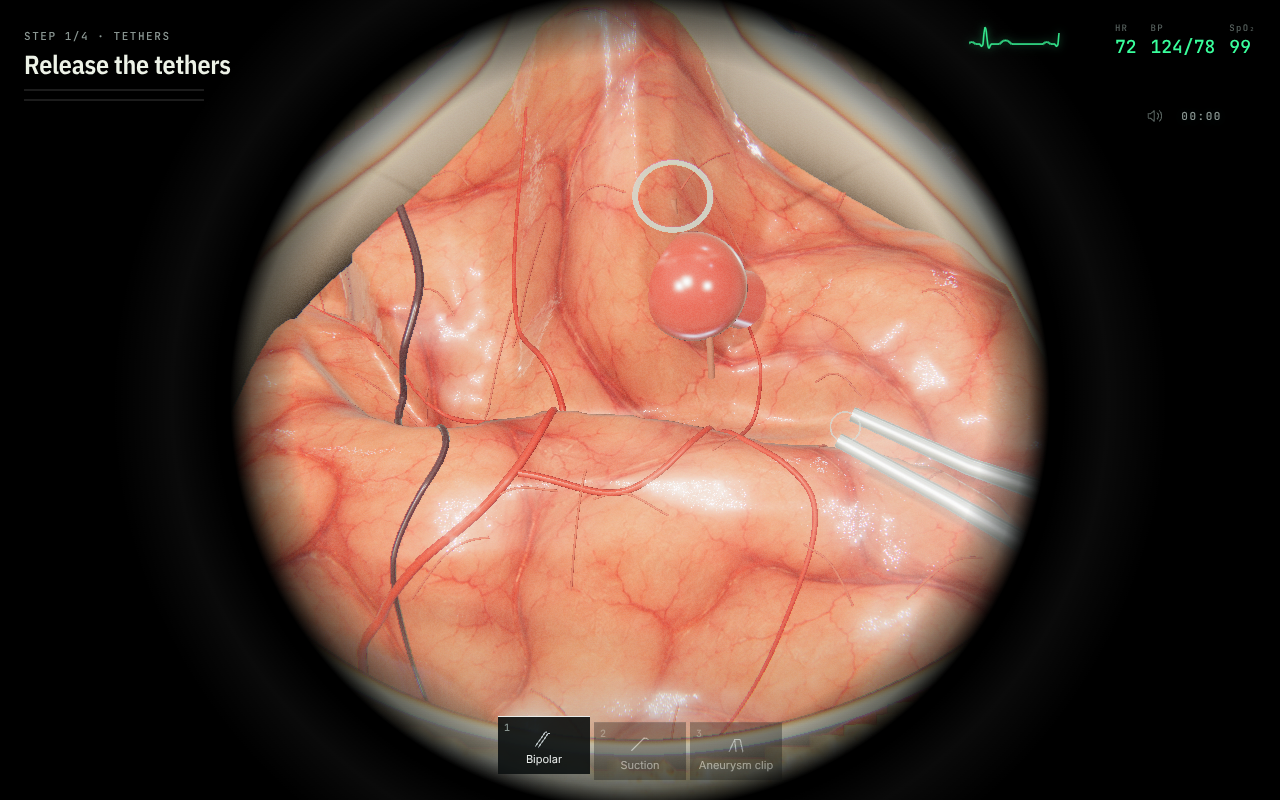
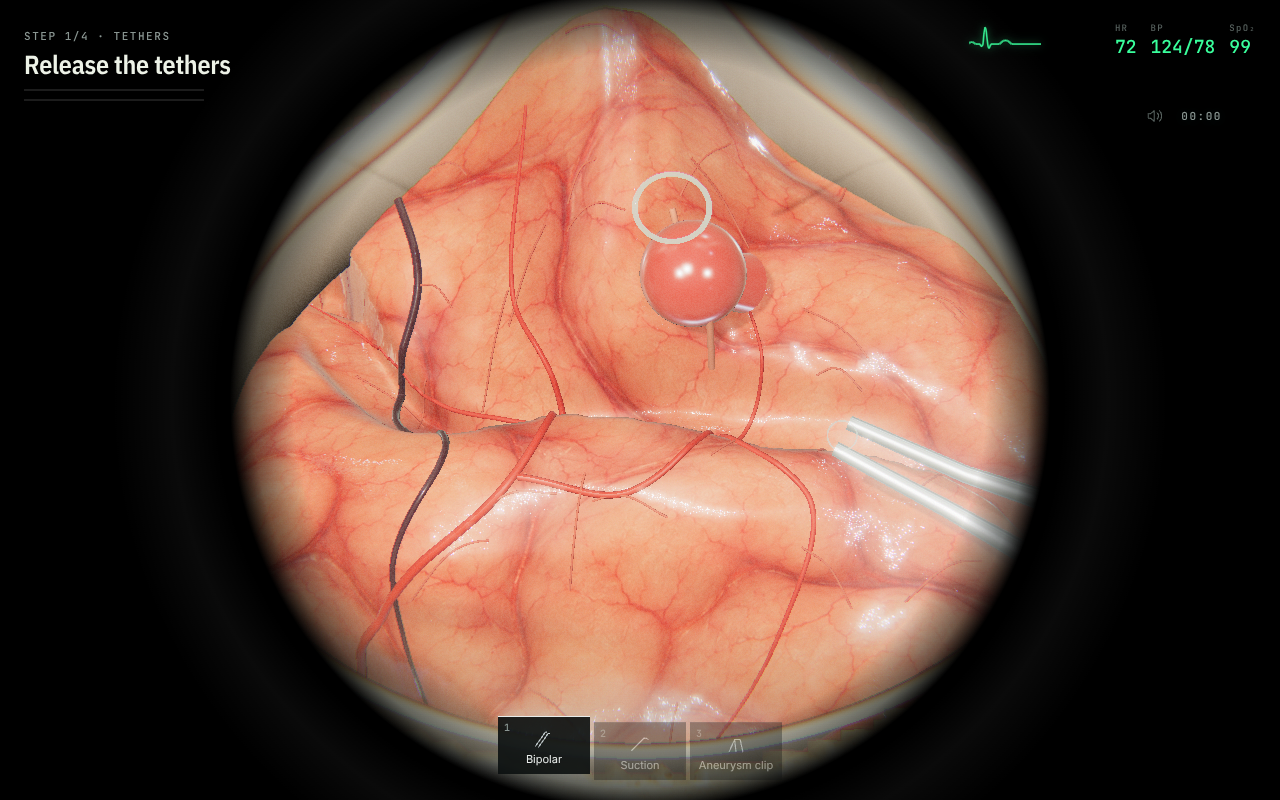
Smooth the skull surface, tent the drape over the head, sink the room's drape under the field
Claude-Session: https://claude.ai/code/session_01KH8wVLk59Yy76nRwxWbc5r

diff --git a/src/game/skull.ts b/src/game/skull.ts
@@ -16,6 +16,7 @@ export const WINDOW_RADIUS = 2.12;
  */
 export class Skull {
   private grid: Float32Array | null = null;
+  private drapeGrid: Float32Array | null = null;
   private readonly x0 = -8;
   private readonly y0 = -9;
   private readonly step = 0.1;
@@ -60,15 +61,90 @@ export class Skull {
   bone(x: number, y: number) {
     return this.scalp(x, y) - SCALP_THICKNESS;
   }
-  /** Surface the drape lies on: over the head where there is one, otherwise down on the table. */
+  /** Surface the drape lies on: over the head, tenting smoothly down to the table. */
   drape(x: number, y: number) {
-    // Take the highest point nearby so the cloth never dips under a bump of the skin.
-    let h = NaN;
-    for (const [dx, dy] of [[0, 0], [0.18, 0], [-0.18, 0], [0, 0.18], [0, -0.18], [0.13, 0.13], [-0.13, -0.13], [0.13, -0.13], [-0.13, 0.13]]) {
-      const v = this.headTop(x + dx, y + dy);
-      if (!Number.isNaN(v) && (Number.isNaN(h) || v > h)) h = v;
+    const g = this.drapeGrid;
+    if (!g) return TABLE_Z;
+    const fx = (x - this.x0) / this.step,
+      fy = (y - this.y0) / this.step;
+    const ix = Math.floor(fx),
+      iy = Math.floor(fy);
+    if (ix < 0 || iy < 0 || ix >= this.nx - 1 || iy >= this.ny - 1) return TABLE_Z;
+    const tx = fx - ix,
+      ty = fy - iy,
+      i = iy * this.nx + ix;
+    return (
+      (g[i] * (1 - tx) + g[i + 1] * tx) * (1 - ty) +
+      (g[i + this.nx] * (1 - tx) + g[i + this.nx + 1] * tx) * ty
+    );
+  }
+  /** Cloth heights: the head surface plus a margin, relaxed outward with a gentle slope. */
+  private buildDrape(head: Float32Array) {
+    const nx = this.nx,
+      ny = this.ny,
+      slope = 1.1 * this.step;
+    let d = new Float32Array(head.length);
+    // Start from the raw (unsmoothed) scan, widened by one cell, so no bump of the skin
+    // can poke through the cloth.
+    for (let j = 0; j < ny; j++)
+      for (let i = 0; i < nx; i++) {
+        let h = NaN;
+        for (let dj = -1; dj <= 1; dj++)
+          for (let di = -1; di <= 1; di++) {
+            const ii = i + di,
+              jj = j + dj;
+            if (ii < 0 || jj < 0 || ii >= nx || jj >= ny) continue;
+            const v = head[jj * nx + ii];
+            if (!Number.isNaN(v) && (Number.isNaN(h) || v > h)) h = v;
+          }
+        d[j * nx + i] = Number.isNaN(h) ? TABLE_Z : Math.max(TABLE_Z, h + 0.08);
+      }
+    const relax = (i: number, j: number, di: number, dj: number, cost: number) => {
+      const ii = i + di,
+        jj = j + dj;
+      if (ii < 0 || jj < 0 || ii >= nx || jj >= ny) return;
+      const v = d[jj * nx + ii] - cost;
+      if (v > d[j * nx + i]) d[j * nx + i] = v;
+    };
+    for (let pass = 0; pass < 2; pass++) {
+      for (let j = 0; j < ny; j++)
+        for (let i = 0; i < nx; i++) {
+          relax(i, j, -1, 0, slope);
+          relax(i, j, 0, -1, slope);
+          relax(i, j, -1, -1, slope * 1.41);
+          relax(i, j, 1, -1, slope * 1.41);
+        }
+      for (let j = ny - 1; j >= 0; j--)
+        for (let i = nx - 1; i >= 0; i--) {
+          relax(i, j, 1, 0, slope);
+          relax(i, j, 0, 1, slope);
+          relax(i, j, 1, 1, slope * 1.41);
+          relax(i, j, -1, 1, slope * 1.41);
+        }
     }
-    return Number.isNaN(h) ? TABLE_Z : Math.max(TABLE_Z, h + 0.07);
+    // Soften, then make sure the cloth still clears the skin everywhere.
+    for (let pass = 0; pass < 4; pass++) {
+      const out = new Float32Array(d.length);
+      for (let j = 0; j < ny; j++)
+        for (let i = 0; i < nx; i++) {
+          let sum = 0,
+            w = 0;
+          for (let dj = -1; dj <= 1; dj++)
+            for (let di = -1; di <= 1; di++) {
+              const ii = i + di,
+                jj = j + dj;
+              if (ii < 0 || jj < 0 || ii >= nx || jj >= ny) continue;
+              const wt = di === 0 && dj === 0 ? 4 : di === 0 || dj === 0 ? 2 : 1;
+              sum += d[jj * nx + ii] * wt;
+              w += wt;
+            }
+          out[j * nx + i] = sum / w;
+        }
+      d = out;
+    }
+    for (let k = 0; k < d.length; k++)
+      if (!Number.isNaN(head[k])) d[k] = Math.max(d[k], head[k] + 0.06);
+    this.drapeGrid = d;
   }
   /** Sample the head by casting rays straight down over a grid. */
   build(mesh: THREE.Mesh) {
@@ -87,6 +163,36 @@ export class Skull {
         const hit = ray.intersectObject(mesh, false)[0];
         grid[j * this.nx + i] = hit ? hit.point.z : NaN;
       }
-    this.grid = grid;
+    // The scan is a coarse mesh: smooth the sampled heights so the layered scalp
+    // edge and the bone follow a clean curve instead of the triangle facets.
+    let src = grid;
+    for (let pass = 0; pass < 5; pass++) {
+      const out = new Float32Array(src.length);
+      for (let j = 0; j < this.ny; j++)
+        for (let i = 0; i < this.nx; i++) {
+          const k = j * this.nx + i;
+          if (Number.isNaN(src[k])) {
+            out[k] = NaN;
+            continue;
+          }
+          let sum = 0,
+            w = 0;
+          for (let dj = -1; dj <= 1; dj++)
+            for (let di = -1; di <= 1; di++) {
+              const ii = i + di,
+                jj = j + dj;
+              if (ii < 0 || jj < 0 || ii >= this.nx || jj >= this.ny) continue;
+              const v = src[jj * this.nx + ii];
+              if (Number.isNaN(v)) continue;
+              const wt = di === 0 && dj === 0 ? 4 : di === 0 || dj === 0 ? 2 : 1;
+              sum += v * wt;
+              w += wt;
+            }
+          out[k] = sum / w;
+        }
+      src = out;
+    }
+    this.grid = src;
+    this.buildDrape(grid);
   }
 }

diff --git a/src/game/room.ts b/src/game/room.ts
@@ -248,10 +248,16 @@ export class OperatingRoom {
           Math.exp(-Math.pow((z - 0.6) / 0.75, 4));
         const edge =
           Math.max(0, Math.abs(x) - 0.39) * 1.05 + Math.max(0, z - 1.1) * 0.8;
+        // Under the operative field the patient's own cloth lies at the head: sink the
+        // room's drape there so the two surfaces do not fight each other.
+        const dh = Math.hypot(x, z + 1.03);
+        const t = Math.min(1, Math.max(0, (dh - 0.5) / 0.25));
+        const sink = 0.12 * (1 - t * t * (3 - 2 * t));
         const y =
           0.91 +
           Math.max(torso, legs) -
-          edge +
+          edge -
+          sink +
           0.018 * Math.sin(x * 31 + z * 7) * Math.min(1, Math.abs(x) * 1.8);
         pos.push(x, y, z);
         uv.push(i / nx, j / nz);
